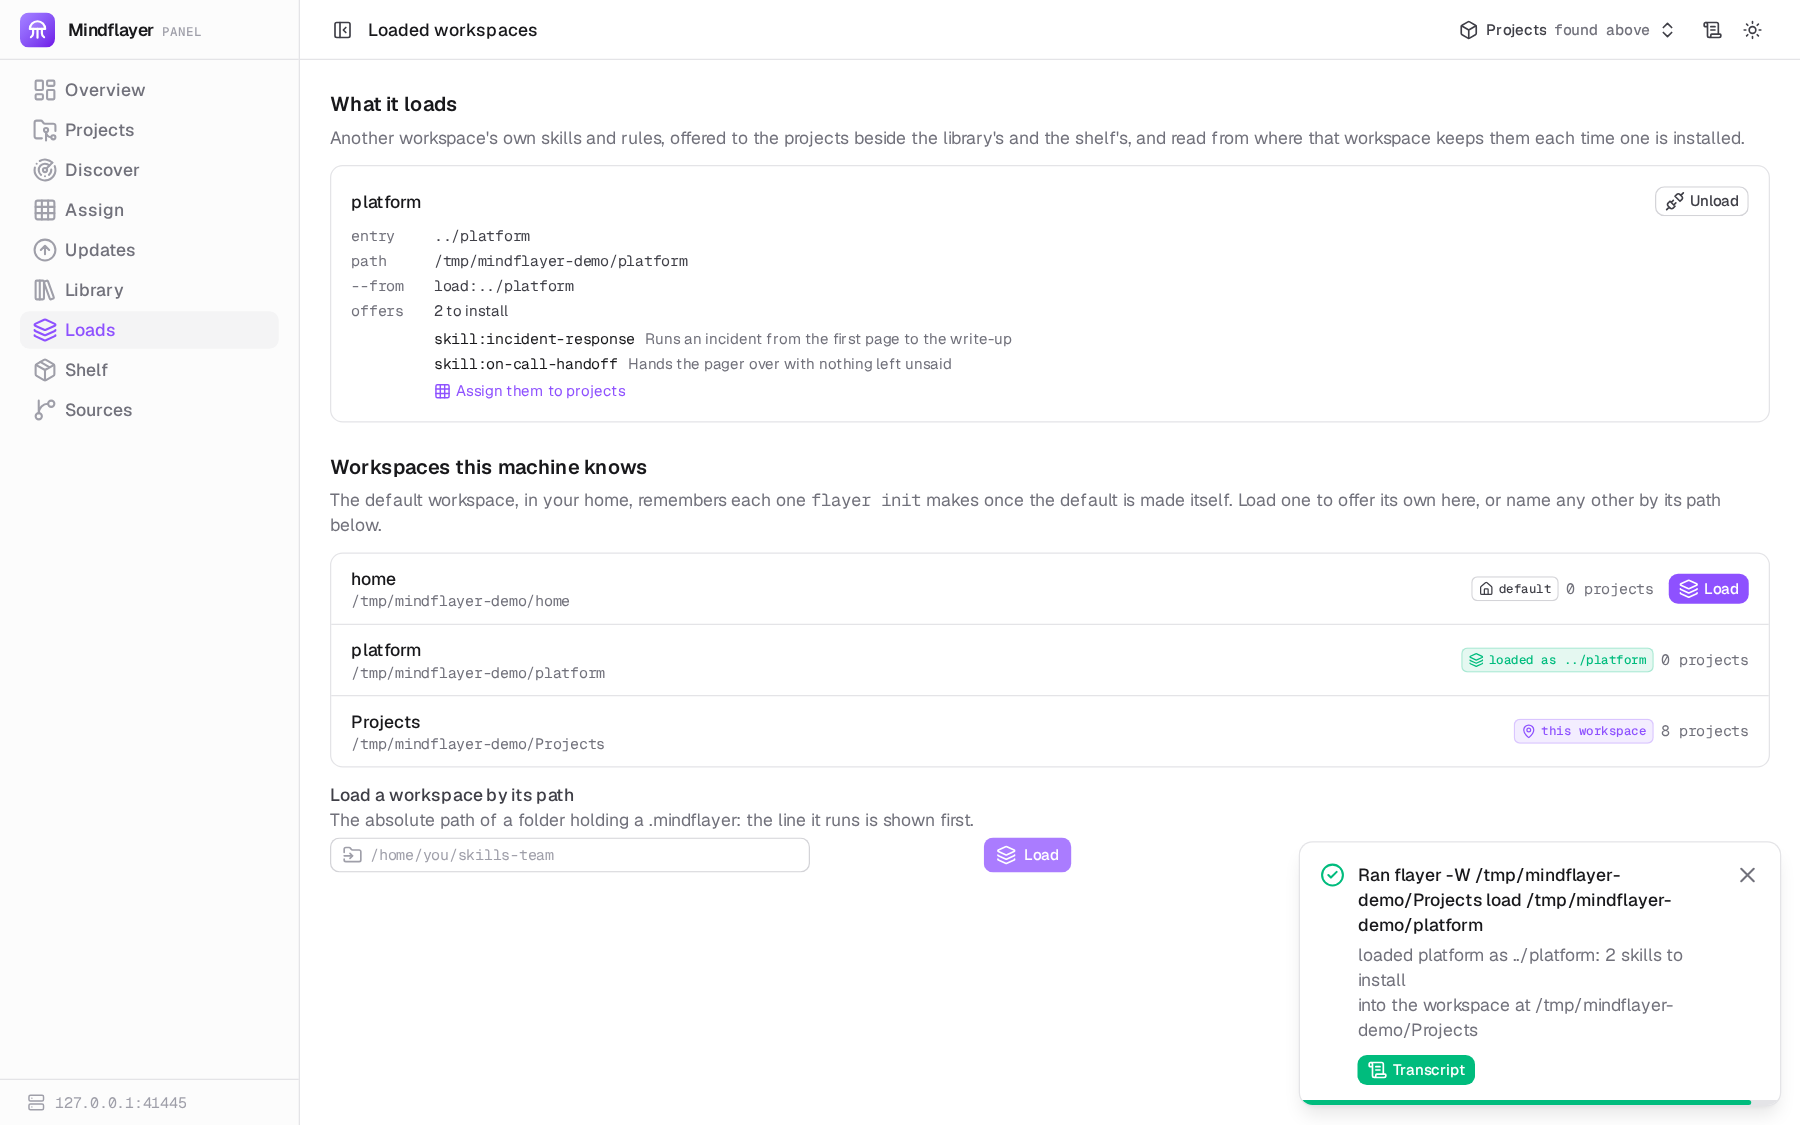
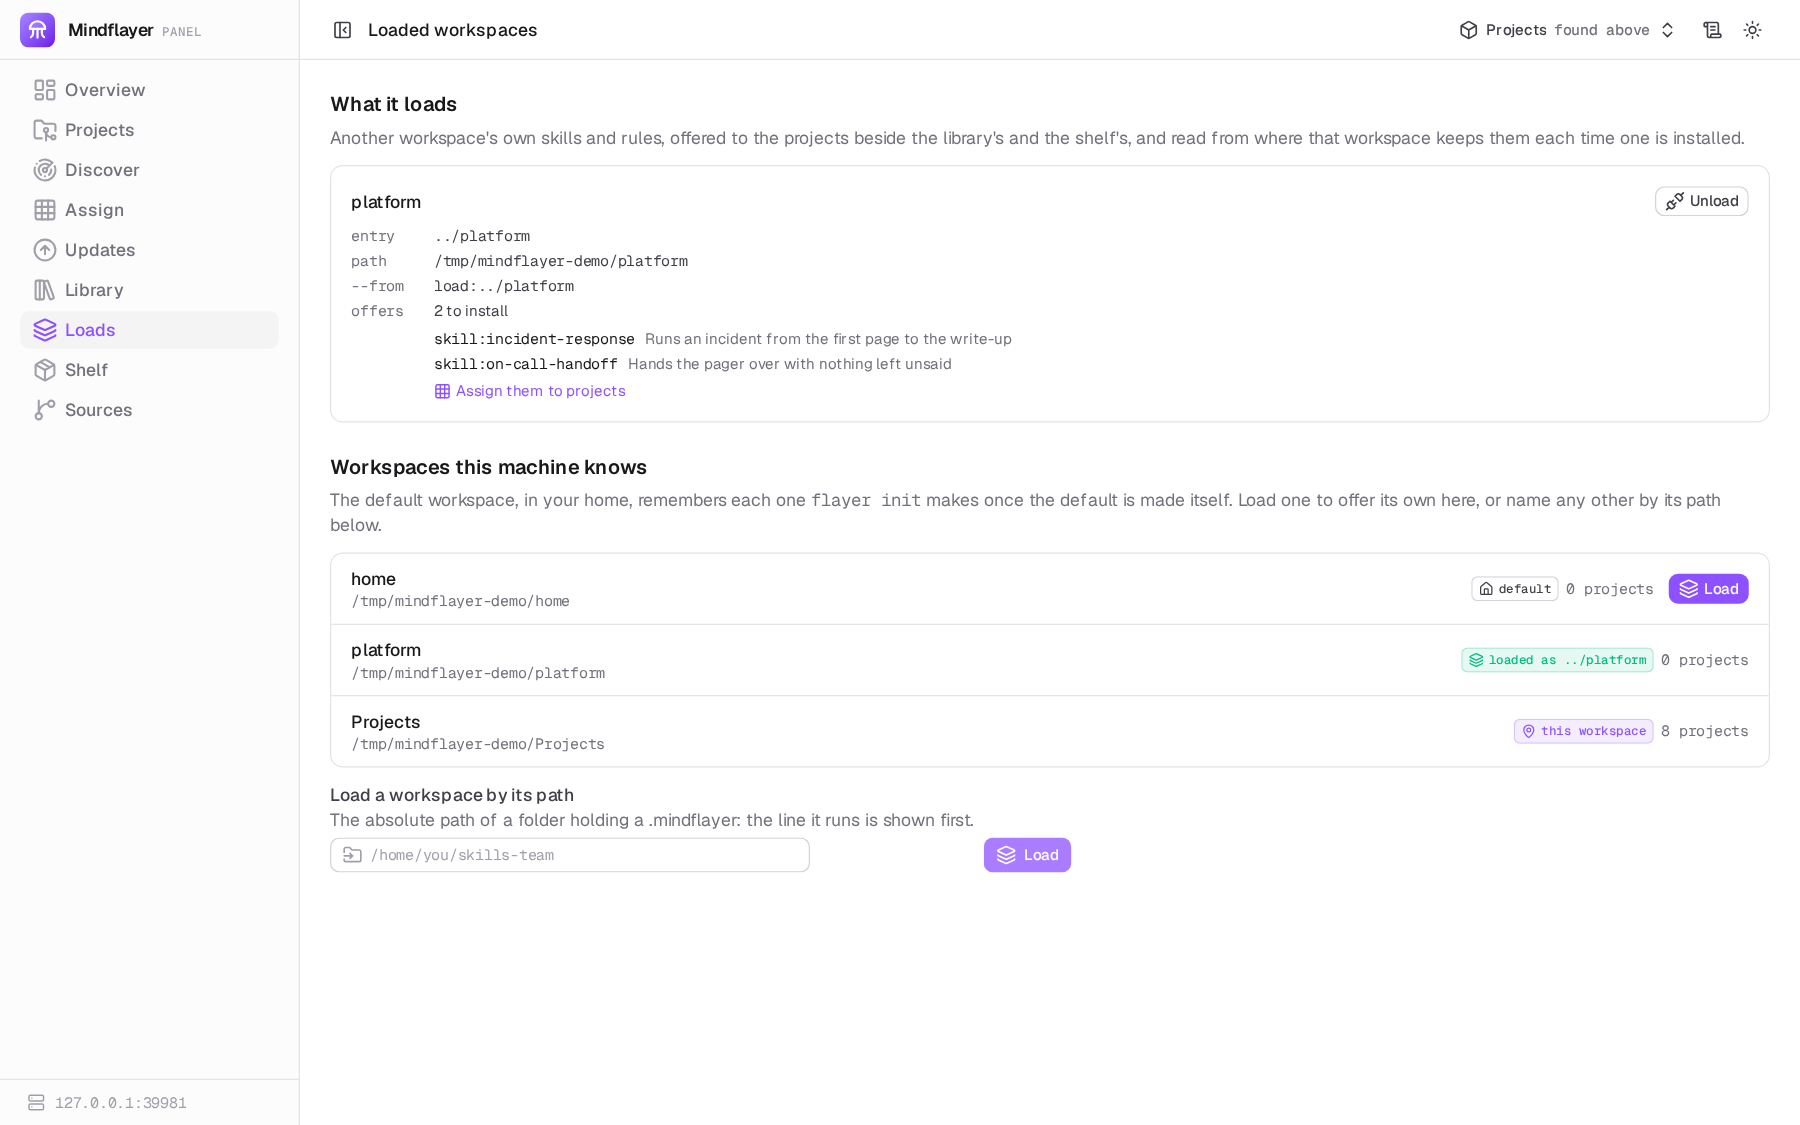
web, docs: wait for the screenshots' toasts whichever workspace a line names
The waits looked for `Ran flayer remove ...` and `Ran flayer load ...`
spelled out, which no toast says once every line names its workspace
with `-W`: they passed at once, and remove.png and loads.png were taken
with the toast over what they show. Each toast is now matched with or
without `-W`, and waited for to show before it goes, so a wait that
misses fails the run.

Claude-Session: https://claude.ai/code/session_01UiBvSA8uGxWzRdpJNkqGh5

Changed region(s): [[0.7156, 0.7778, 0.9956, 0.9956]]

diff --git a/apps/web/e2e/screenshots.ts b/apps/web/e2e/screenshots.ts
@@ -114,6 +114,21 @@ interface Shot {
   ready: (page: Page) => Promise<void>
 }
 
+/**
+ * Wait for the toast saying a line of `binary` ending in `words` ran to
+ * show, then to go, so the image is taken without it over what it shows.
+ * Matched whichever workspace the line names with `-W`, which the panel
+ * puts right after the binary: the line spelled out would be a wait that
+ * passes at once, for a toast that is never there, the day its spelling
+ * changes; and waited for to show first, so a pattern that misses fails
+ * the run rather than leave the toast in the image.
+ */
+async function toastGone(page: Page, binary: string, words: string): Promise<void> {
+  const toast = page.getByText(new RegExp(`^Ran ${literally(binary)} (?:-W .+ )?${literally(words)}$`))
+  await toast.waitFor({ timeout: 30_000 })
+  await toast.waitFor({ state: 'hidden', timeout: 30_000 })
+}
+
 /** Wait until the page is drawn, as the suite's `drawn` does, and every animation settled. */
 async function drawn(page: Page): Promise<void> {
   await page.getByRole('main').first().waitFor()
@@ -320,7 +335,7 @@ const TOUR: Shot[] = [
       await dialog.waitFor({ state: 'hidden' })
       await page.getByTestId('remove-said').waitFor()
       // The toast saying it ran would cover what it said: gone first.
-      await page.getByText(`Ran flayer remove --everywhere skill:${REMOVED}`, { exact: true }).waitFor({ state: 'hidden', timeout: 30_000 })
+      await toastGone(page, 'flayer', `remove --everywhere skill:${REMOVED}`)
       await page.getByTestId('remove-yes').scrollIntoViewIfNeeded()
     }
   },
@@ -336,7 +351,7 @@ const TOUR: Shot[] = [
       await dialog.waitFor({ state: 'hidden' })
       await page.getByTestId('load').getByTestId('offer').first().waitFor()
       // The toast saying it ran would cover what the page shows: gone first.
-      await page.getByText(`Ran flayer load ${join(at.scratch, LOADED)}`, { exact: true }).waitFor({ state: 'hidden', timeout: 30_000 })
+      await toastGone(page, 'flayer', `load ${join(at.scratch, LOADED)}`)
     }
   }
 ]
